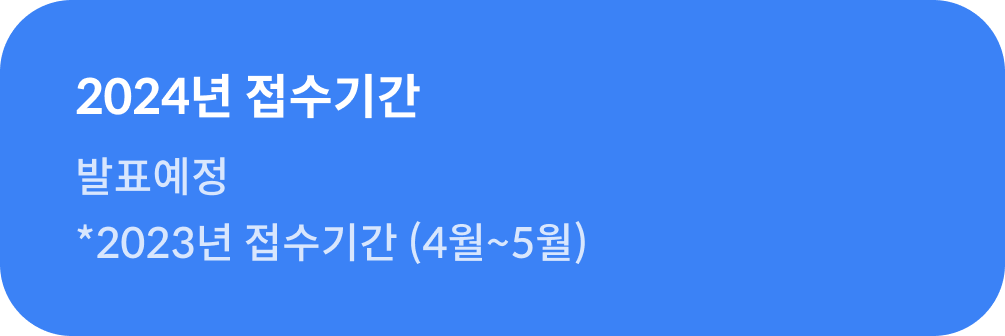
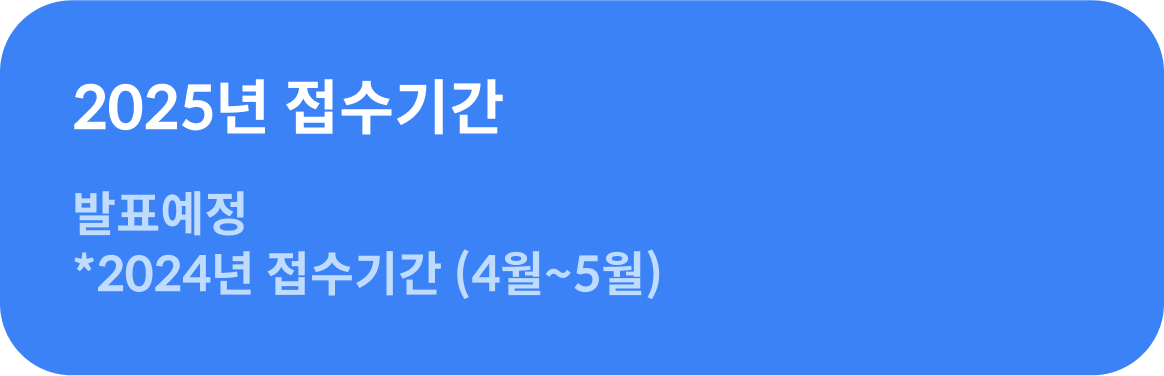
update: change year

diff --git a/index.html b/index.html
@@ -5,7 +5,7 @@
     <title>스만사 - 스마트공방 만드는 사람들</title>
     <meta
       name="description"
-      content="최대 1억원 혜택을 받을 수 있는 2024 스마트공방 기술보급 사업. 소규모 제조업 공정에 스마트 기술을 접목하여 디지털화하는 스마트공방 기술보급 사업을 스마트공방 만드는 사람들과 함께 하세요."
+      content="최대 1억원 혜택을 받을 수 있는 2025 스마트공방 기술보급 사업. 소규모 제조업 공정에 스마트 기술을 접목하여 디지털화하는 스마트공방 기술보급 사업을 스마트공방 만드는 사람들과 함께 하세요."
     />
     <meta name="keywords" content="스만사 - 스마트공방 만드는 사람들" />
     <meta itemprop="name" content="스만사 - 스마트공방 만드는 사람들" />
@@ -14,7 +14,7 @@
     <meta property="og:title" content="스만사 - 스마트공방 만드는 사람들" />
     <meta
       property="og:description"
-      content="최대 1억원 혜택을 받을 수 있는 2024 스마트공방 기술보급 사업. 소규모 제조업 공정에 스마트 기술을 접목하여 디지털화하는 스마트공방 기술보급 사업을 스마트공방 만드는 사람들과 함께 하세요."
+      content="최대 1억원 혜택을 받을 수 있는 2025 스마트공방 기술보급 사업. 소규모 제조업 공정에 스마트 기술을 접목하여 디지털화하는 스마트공방 기술보급 사업을 스마트공방 만드는 사람들과 함께 하세요."
     />
     <meta property="og:image" content="https://www.smartgongbang.com/og.jpg" />
     <meta property="og:url" content="https://www.smartgongbang.com" />
@@ -25,7 +25,7 @@
     <meta name="twitter:title" content="스만사 - 스마트공방 만드는 사람들" />
     <meta
       name="twitter:description"
-      content="최대 1억원 혜택+을 받을 수 있는 2024 스마트공방 기술보급 사업. 소규모 제조업 공정에 스마트 기술을 접목하여 디지털화하는 스마트공방 기술보급 사업을 스마트공방 만드는 사람들과 함께 하세요."
+      content="최대 1억원 혜택+을 받을 수 있는 2025 스마트공방 기술보급 사업. 소규모 제조업 공정에 스마트 기술을 접목하여 디지털화하는 스마트공방 기술보급 사업을 스마트공방 만드는 사람들과 함께 하세요."
     />
     <meta name="twitter:url" content="https://www.smartgongbang.com" />
     <meta name="twitter:image" content="https://www.smartgongbang.com/og.jpg" />
@@ -167,10 +167,10 @@
             class="self-center"
           />
           <div class="block lg:hidden text-4xl text-center">
-            2024년 스만사가<br />새로운 제안을 드립니다
+            2025년 스만사가<br />새로운 제안을 드립니다
           </div>
           <div class="hidden lg:block text-5xl text-center">
-            2024년 스만사가<br />새로운 제안을 드립니다
+            2025년 스만사가<br />새로운 제안을 드립니다
           </div>
           <div class="flex flex-col gap-6">
             <div class="text-xl text-center text-gray-500">
@@ -592,15 +592,15 @@
         <div
           class="w-full max-w-5xl mx-auto px-5 lg:px-0 py-24 flex flex-col gap-12"
         >
-          <div class="text-2xl text-center">스마트공방 소프트웨어(MES) 단가표</div>
+          <div class="text-2xl text-center">
+            스마트공방 소프트웨어(MES) 단가표
+          </div>
           <div
             class="w-full max-w-3xl mx-auto lg:px-12 flex lg:hidden flex-col gap-6"
           >
             <div class="flex flex-col gap-6">
-              <img src="./resources/img-pricingtable-1-m.png"
-              />
-                <img src="./resources/img-pricingtable-2-m.png"
-              />
+              <img src="./resources/img-pricingtable-1-m.png" />
+              <img src="./resources/img-pricingtable-2-m.png" />
               <img src="./resources/img-pricingtable-3-m.png" />
             </div>
           </div>
@@ -608,9 +608,13 @@
             class="w-full max-w-5xl mx-auto px-5 lg:px-0 hidden lg:flex flex-col gap-12"
           >
             <div class="grid lg:grid-cols-3 gap-6">
-              <img src="./resources/img-pricingtable-1-m.png" class="w-full h-auto"
+              <img
+                src="./resources/img-pricingtable-1-m.png"
+                class="w-full h-auto"
               />
-              <img src="./resources/img-pricingtable-2-m.png" class="w-full h-auto"
+              <img
+                src="./resources/img-pricingtable-2-m.png"
+                class="w-full h-auto"
               />
               <!-- 
               <img
@@ -641,7 +645,7 @@
             Call : 032-262-3121 | Email : hive@datahive.co.kr
           </div>
           <div class="text-sm font-normal">
-            Ⓒ 2024 스마트공방 만드는 사람들. All right reserved.
+            Ⓒ 2025 스마트공방 만드는 사람들. All right reserved.
           </div>
         </div>
       </footer>

diff --git a/solution.html b/solution.html
@@ -5,7 +5,7 @@
     <title>스만사 - 스마트공방 만드는 사람들</title>
     <meta
       name="description"
-      content="최대 1억원 혜택을 받을 수 있는 2023 스마트공방 기술보급 사업. 소규모 제조업 공정에 스마트 기술을 접목하여 디지털화하는 스마트공방 기술보급 사업을 스마트공방 만드는 사람들과 함께 하세요."
+      content="최대 1억원 혜택을 받을 수 있는 2025 스마트공방 기술보급 사업. 소규모 제조업 공정에 스마트 기술을 접목하여 디지털화하는 스마트공방 기술보급 사업을 스마트공방 만드는 사람들과 함께 하세요."
     />
 
     <meta name="keywords" content="스만사 - 스마트공방 만드는 사람들" />
@@ -15,7 +15,7 @@
     <meta property="og:title" content="스만사 - 스마트공방 만드는 사람들" />
     <meta
       property="og:description"
-      content="최대 1억원 혜택을 받을 수 있는 2023 스마트공방 기술보급 사업. 소규모 제조업 공정에 스마트 기술을 접목하여 디지털화하는 스마트공방 기술보급 사업을 스마트공방 만드는 사람들과 함께 하세요."
+      content="최대 1억원 혜택을 받을 수 있는 2025 스마트공방 기술보급 사업. 소규모 제조업 공정에 스마트 기술을 접목하여 디지털화하는 스마트공방 기술보급 사업을 스마트공방 만드는 사람들과 함께 하세요."
     />
     <meta property="og:image" content="https://www.smartgongbang.com/og.jpg" />
     <meta property="og:url" content="https://www.smartgongbang.com" />
@@ -26,7 +26,7 @@
     <meta name="twitter:title" content="스만사 - 스마트공방 만드는 사람들" />
     <meta
       name="twitter:description"
-      content="최대 1억원 혜택을 받을 수 있는 2023 스마트공방 기술보급 사업. 소규모 제조업 공정에 스마트 기술을 접목하여 디지털화하는 스마트공방 기술보급 사업을 스마트공방 만드는 사람들과 함께 하세요."
+      content="최대 1억원 혜택을 받을 수 있는 2025 스마트공방 기술보급 사업. 소규모 제조업 공정에 스마트 기술을 접목하여 디지털화하는 스마트공방 기술보급 사업을 스마트공방 만드는 사람들과 함께 하세요."
     />
     <meta name="twitter:url" content="https://www.smartgongbang.com" />
     <meta name="twitter:image" content="https://www.smartgongbang.com/og.jpg" />
